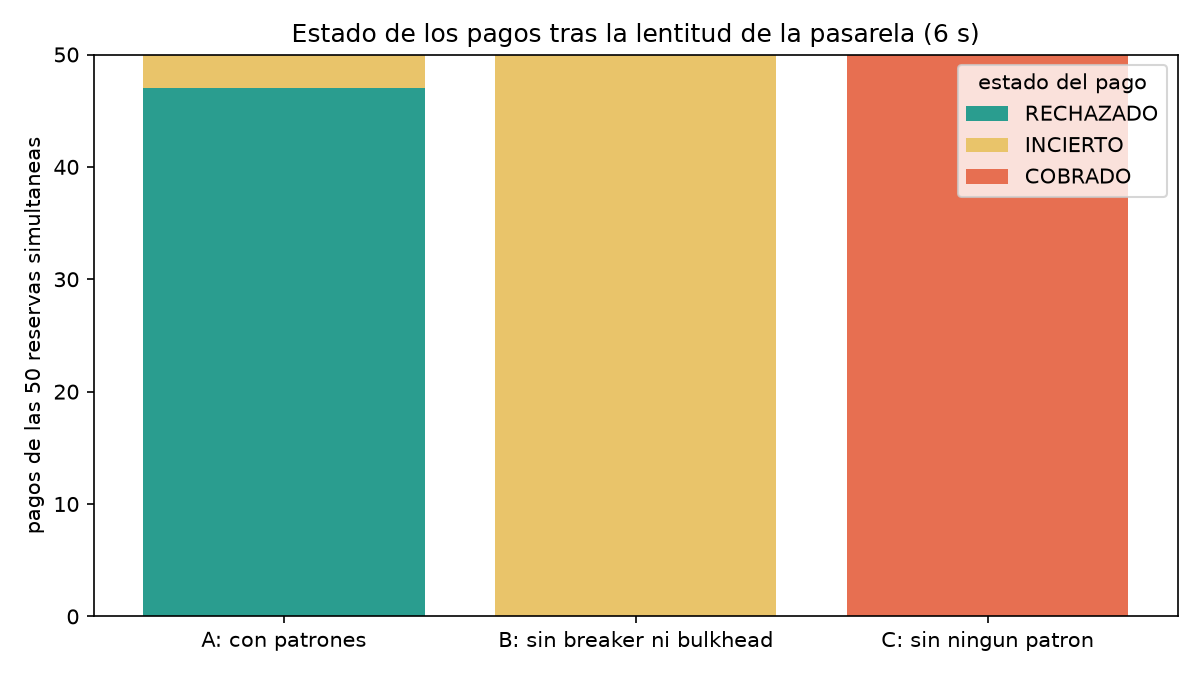
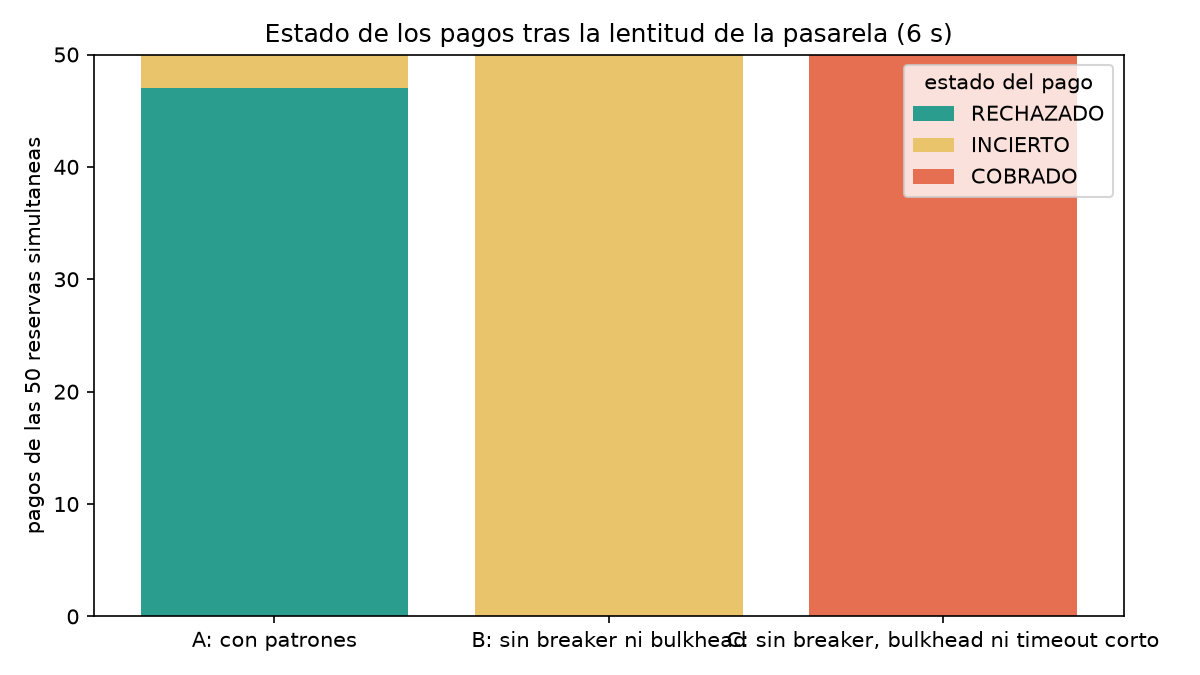
fix: etiqueta de la configuracion C en los graficos del escenario 3

Changed region(s): [[0.2158, 0.0311, 0.9867, 0.9644], [0.1542, 0.9333, 0.3083, 0.9644]]

diff --git a/experimentos/graficar_escenario3.py b/experimentos/graficar_escenario3.py
@@ -10,7 +10,7 @@ import matplotlib.pyplot as plt
 AQUI = Path(__file__).resolve().parent
 RESUMEN = AQUI.parent / "evidence" / "docker" / "escenario3_resumen.json"
 ETIQUETAS = {"A_con_patrones": "A: con patrones", "B_sin_breaker_ni_bulkhead": "B: sin breaker ni bulkhead",
-             "C_sin_ningun_patron": "C: sin ningun patron"}
+             "C_sin_ningun_patron": "C: sin breaker, bulkhead ni timeout corto"}
 COLORES = {"A_con_patrones": "#2a9d8f", "B_sin_breaker_ni_bulkhead": "#e9c46a", "C_sin_ningun_patron": "#e76f51"}
 ESTADOS = ["RECHAZADO", "INCIERTO", "COBRADO"]
 COLOR_ESTADO = {"RECHAZADO": "#2a9d8f", "INCIERTO": "#e9c46a", "COBRADO": "#e76f51"}
